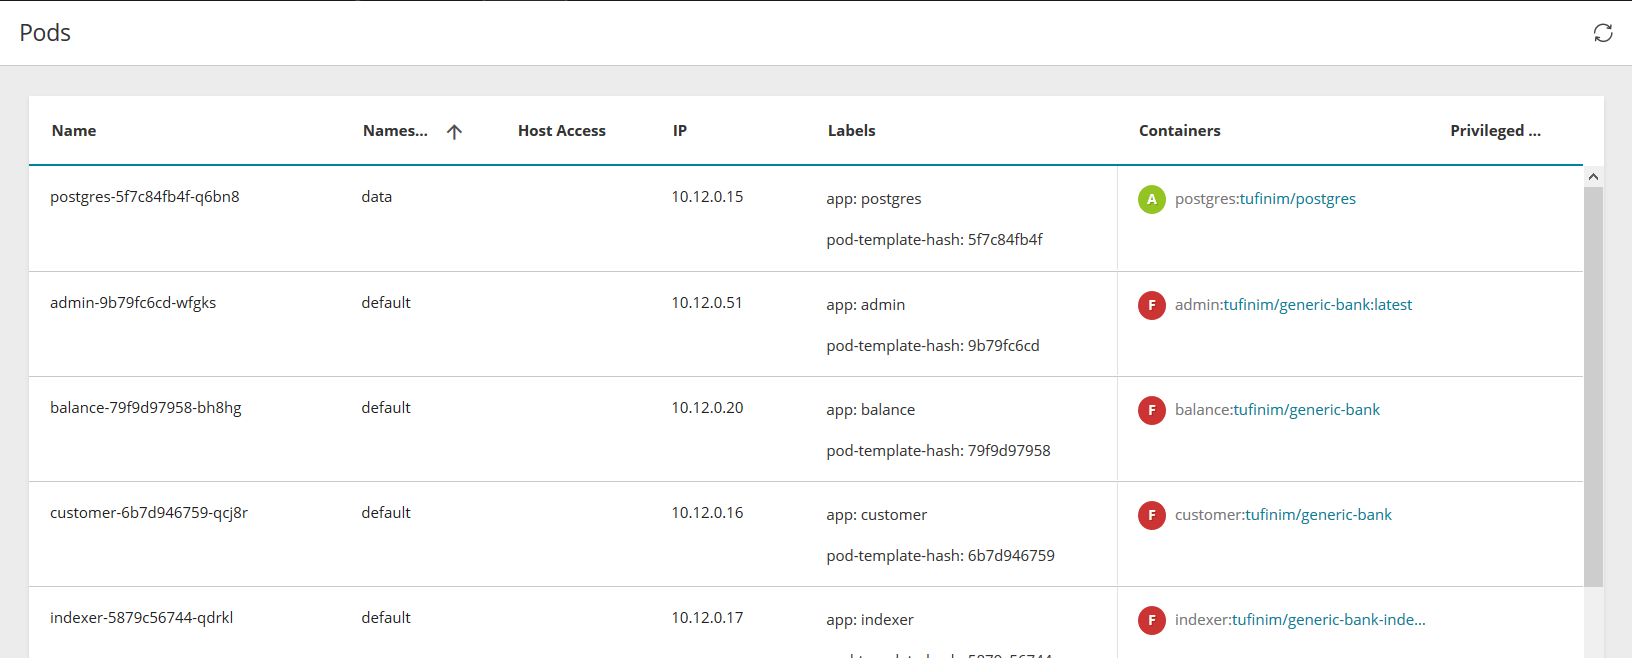
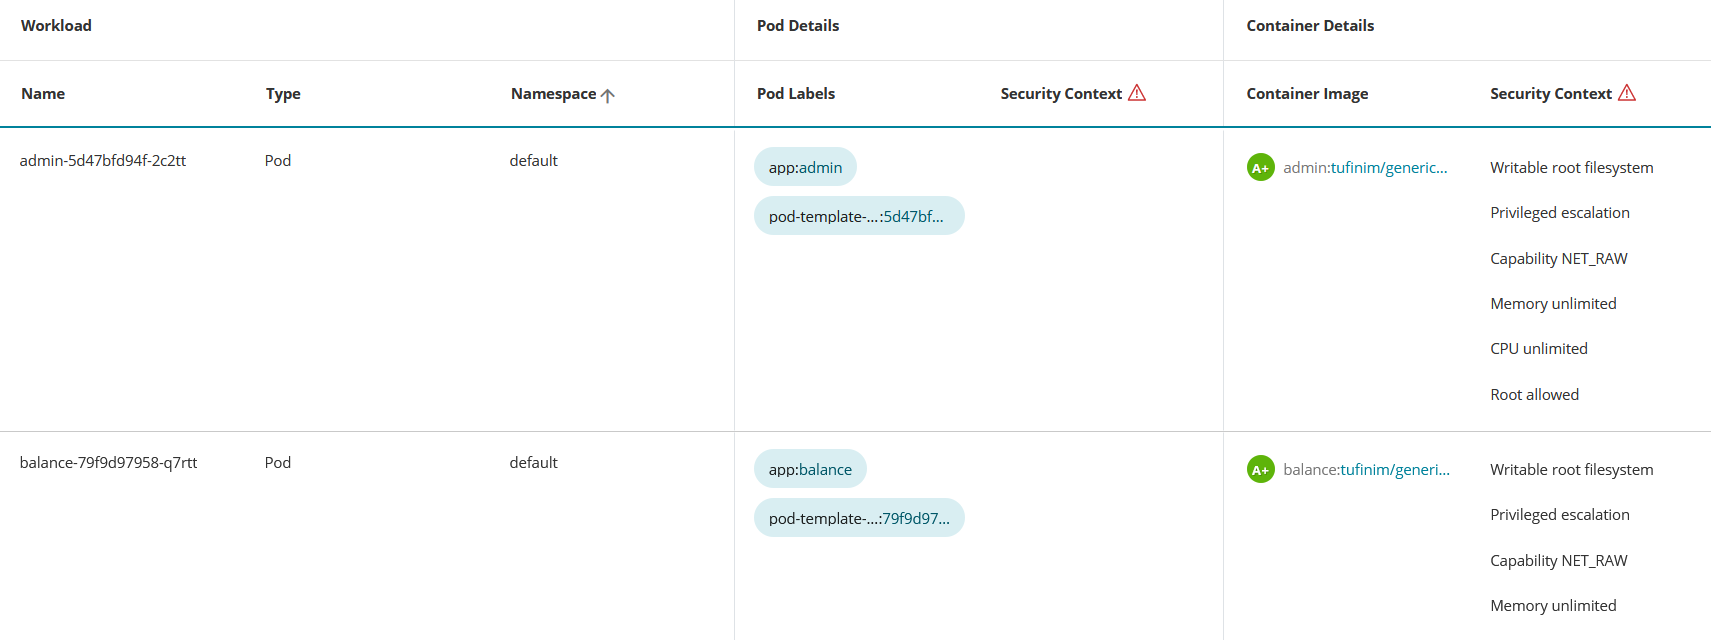
feature / PO / reports, workloads

diff --git a/Content/Kubernetes/Workloads.htm b/Content/Kubernetes/Workloads.htm
@@ -4,14 +4,14 @@
         <link href="../Resources/TableStyles/PatternedRows.css" rel="stylesheet" MadCap:stylesheetType="table" />
     </head>
     <body>
-        <h1>Pods</h1>
+        <h1>Workloads</h1>
         <MadCap:snippetBlock src="../Resources/TopicTemplates/Collateral/H2_Overview.flsnp" />
         <p>
             <img src="../Kubernetes-Images/Screen_Pods.png" class="ThumbnailPopup" />
         </p>
-        <p>The Pods window displays all the <MadCap:popup><MadCap:popupHead>pods</MadCap:popupHead><MadCap:popupBody>A Kubernetes pod is a group of containers that are deployed together on the same host.</MadCap:popupBody></MadCap:popup> in the Kubernetes cluster from nodes that <MadCap:variable name="local-orca.Product_S" /> has permission to access: </p>
+        <p>Display all <MadCap:variable name="local.workload" />s with active <MadCap:popup><MadCap:popupHead>Pods</MadCap:popupHead><MadCap:popupBody>A Kubernetes pod is a group of containers that are deployed together on the same host.</MadCap:popupBody></MadCap:popup> in the cluster from nodes that <MadCap:variable name="local-orca.Product_S" /> has permission to access: </p>
         <table style="mc-table-style: url('../Resources/TableStyles/PatternedRows.css');" class="TableStyle-PatternedRows" cellspacing="0">
-            <col class="TableStyle-PatternedRows-Column-Regular" />
+            <col class="TableStyle-PatternedRows-Column-Regular" style="width: 207px;" />
             <col class="TableStyle-PatternedRows-Column-Regular" />
             <thead>
                 <tr class="TableStyle-PatternedRows-Head-Header1">
@@ -26,41 +26,46 @@
             <tbody>
                 <tr class="TableStyle-PatternedRows-Body-LightRows">
                     <td class="TableStyle-PatternedRows-BodyE-Regular-LightRows">Name</td>
-                    <td class="TableStyle-PatternedRows-BodyD-Regular-LightRows">Name of the pod</td>
+                    <td class="TableStyle-PatternedRows-BodyD-Regular-LightRows">Name of the <MadCap:variable name="local.workload" /></td>
                 </tr>
                 <tr class="TableStyle-PatternedRows-Body-DarkRows">
-                    <td class="TableStyle-PatternedRows-BodyE-Regular-DarkRows">Namespace</td>
-                    <td class="TableStyle-PatternedRows-BodyD-Regular-DarkRows">Namespace in which the pod is running </td>
-                </tr>
-                <tr class="TableStyle-PatternedRows-Body-LightRows">
-                    <td class="TableStyle-PatternedRows-BodyE-Regular-LightRows">Host Access</td>
-                    <td class="TableStyle-PatternedRows-BodyD-Regular-LightRows">
-                        <p>If a value appears here, the pod has access to the host - the node on which the pod was initiated</p>
-                        <MadCap:snippetBlock src="../SecureCloud/WhatIsHostAccess.flsnp" />
+                    <td class="TableStyle-PatternedRows-BodyE-Regular-DarkRows">Type</td>
+                    <td class="TableStyle-PatternedRows-BodyD-Regular-DarkRows">
+                        <p>Type of workload. Can be any one of:</p>
+                        <div>
+                            <ul>
+                                <li>deployment</li>
+                                <li>deamon set</li>
+                                <li>cron job</li>
+                                <li>stateful set</li>
+                                <li>replica set</li>
+                                <li>job</li>
+                            </ul>
+                        </div>
                     </td>
                 </tr>
+                <tr class="TableStyle-PatternedRows-Body-LightRows">
+                    <td class="TableStyle-PatternedRows-BodyE-Regular-LightRows">Namespace</td>
+                    <td class="TableStyle-PatternedRows-BodyD-Regular-LightRows">Namespace to which the workload is applied</td>
+                </tr>
                 <tr class="TableStyle-PatternedRows-Body-DarkRows">
-                    <td class="TableStyle-PatternedRows-BodyE-Regular-DarkRows">IP</td>
-                    <td class="TableStyle-PatternedRows-BodyD-Regular-DarkRows">IP address of the pod</td>
+                    <td class="TableStyle-PatternedRows-BodyE-Regular-DarkRows">Pod Labels</td>
+                    <td class="TableStyle-PatternedRows-BodyD-Regular-DarkRows">The labels assigned to the workload's pods</td>
                 </tr>
                 <tr class="TableStyle-PatternedRows-Body-LightRows">
-                    <td class="TableStyle-PatternedRows-BodyE-Regular-LightRows">Labels</td>
-                    <td class="TableStyle-PatternedRows-BodyD-Regular-LightRows">All labels defined for the pod</td>
+                    <td class="TableStyle-PatternedRows-BodyE-Regular-LightRows">Pod Security Context</td>
+                    <td class="TableStyle-PatternedRows-BodyD-Regular-LightRows">The <a href="WhatIsK8sPrivilegedWorkload.htm">security contexts</a> assigned to the workload's pods</td>
                 </tr>
                 <tr class="TableStyle-PatternedRows-Body-DarkRows">
-                    <td class="TableStyle-PatternedRows-BodyE-Regular-DarkRows">Containers</td>
+                    <td class="TableStyle-PatternedRows-BodyE-Regular-DarkRows">Container Image</td>
                     <td class="TableStyle-PatternedRows-BodyD-Regular-DarkRows">All containers in the pod, showing <a href="SecurityScore.htm"><MadCap:variable name="local-orca.TufinScore" /></a>.</td>
                 </tr>
                 <tr class="TableStyle-PatternedRows-Body-LightRows">
                     <td class="TableStyle-PatternedRows-BodyB-Regular-LightRows">
-                        <p class="TableBodyText">Privileged Mode</p>
+                        <p class="TableBodyText">Container Security Context</p>
                     </td>
                     <td class="TableStyle-PatternedRows-BodyA-Regular-LightRows">
-                        <p class="TableBodyText">When privileged mode is enabled for a container (privileged=true), it has access to all devices on the host and has nearly the same capabilities as processes running on the host. Values:</p>
-                        <ul>
-                            <li><span class="StatusOrValue">Privileged</span>: Container has privileged access</li>
-                            <li>Blank: Container does not have privileged access</li>
-                        </ul>
+                        <p>The <a href="WhatIsK8sPrivilegedWorkload.htm">security contexts</a> assigned to the workload's containers</p>
                     </td>
                 </tr>
             </tbody>
@@ -70,6 +75,6 @@
             <li>View <a href="VulnerabilityDetails.htm">vulnerability details</a> - Click on a <MadCap:variable name="local-orca.TufinScore" /> to display the vulnerability details for that container.</li>
         </ul>
         <MadCap:snippetBlock src="../Resources/TopicTemplates/Collateral/H2_GetHere.flsnp" />
-        <MadCap:snippetBlock src="../Resources/Snippets/GetHere_Pods.flsnp" />
+        <MadCap:snippetBlock src="../Resources/Snippets/GetHere_Workloads.flsnp" />
     </body>
 </html>

diff --git a/Content/SecureCloud/Reports.htm b/Content/SecureCloud/Reports.htm
@@ -1,0 +1,59 @@
+<?xml version="1.0" encoding="utf-8"?>
+<html xmlns:MadCap="http://www.madcapsoftware.com/Schemas/MadCap.xsd">
+    <head>
+    </head>
+    <body>
+        <h1>Reports</h1>
+        <MadCap:snippetBlock src="../Resources/TopicTemplates/Collateral/UL_Contents.flsnp" />
+        <MadCap:snippetBlock src="../Resources/TopicTemplates/Collateral/H2_Overview.flsnp" />
+        <p><MadCap:variable name="local.ProductName" /> contains a number of built-in reports that can be automatically sent by email to keep you constantly updated of any security changes and risks in your <MadCap:variable name="local.public cloud" /> and <MadCap:variable name="local.Kubernetes" /> environments. You can select the reports to deliver, the subscribers that will receive them additionally set up notifications  of <MadCap:variable name="local.public cloud" /> <MadCap:variable name="local.policyviolations" /></p>
+        <MadCap:snippetBlock src="../Resources/TopicTemplates/Collateral/H2_Actions.flsnp" />
+        <ul class="Action">
+            <li><a href="#selectreports">Select the reports to be sent </a>
+            </li>
+            <li><a href="#scheduling">Specify scheduling details</a>
+            </li>
+            <li><a href="#slack">Set up notifications  of <MadCap:variable name="local.public cloud" /> <MadCap:variable name="local.policyviolations" /></a>
+            </li>
+        </ul>
+        <p class="h3"><a name="selectreports"></a>Select the Reports to be Sent</p>
+        <p class="normal">Mark one or more of the reports to be sent automatically to the selected subscribers. The reports are:</p>
+        <p class="h4">Security Posture</p>
+        <p>
+            <img src="../SecureCloud-Images/Screen_Report_Selection.png" class="ThumbnailPopup" />
+        </p>
+        <p class="normal">A weekly report for <MadCap:variable name="local.public cloud" />  and <MadCap:variable name="local.Kubernetes" />security posture that includes the most important categories of information from the <MadCap:variable name="local.Dashboard" />. Once selected, this report will be sent every Tuesday at the time of day and to the subscribers you specify. </p>
+        <p class="h4"><MadCap:variable name="local.Public Cloud" /> <MadCap:variable name="local.PolicyViolations" /></p>
+        <p>A daily report sent 7 days a week containing new <MadCap:variable name="local.policyviolations" /> in your assets at the time of day and to the subscribers you specify. </p>
+        <p class="h4">New Cluster Assessment</p>
+        <p class="normal">A report sent after you connect a new <MadCap:variable name="local.Kubernetes" /> cluster to <MadCap:variable name="local.ProductName" /> that contains an analysis of the cluster security including <MadCap:variable name="local.CISBenchmarkKubernetes" />, <MadCap:variable name="local.privilegedworkloads" />, <MadCap:variable name="local.K8sVulnerabilities" /> and image vulnerabilities. After you have connected your first cluster, subsequent clusters can only be connected with the help of <MadCap:variable name="local.ProductName" /> support.</p>
+        <p class="h3"><a name="scheduling"></a>Specify Scheduling Details</p>
+        <p>Select the time to send and the subscribers to which the reports will be sent. The same setting applies to all the selected reports. The subscribers can only be selected from existing <a href="Users.htm">users</a> of the current <MadCap:variable name="local.MyAccount" />.</p>
+        <p>
+            <img src="../SecureCloud-Images/Screen_Reports_Schedule.png" class="ThumbnailPopup" />
+        </p>
+        <p>To specify the time the report should be sent, click on <img src="../PublicCloud-Images/icon_Edit.png" class="noborder" />and select the preferred time.</p>
+        <p>To add users to the list of subscribers, click <span class="ScreenObject">Add Subscriber</span> and select the user from the list.</p>
+        <p>To remove a subscriber, hover over the user and click <img src="../PublicCloud-Images/icon_Delete.png" class="noborder" />.</p>
+        <p class="h3"><a name="slack"></a>Set Up Notifications of <MadCap:variable name="local.Public Cloud" /> <MadCap:variable name="local.PolicyViolations" /></p>
+        <p>
+            <img src="../SecureCloud-Images/Screen_Reports_Slack.png" class="ThumbnailPopup" />
+        </p>
+        <p>You can receive a notification via Slack every time a <MadCap:variable name="local.public cloud" /> policy violation is detected. </p>
+        <ol>
+            <li>
+                <p> Enable / disable notifications using the checkbox.</p>
+            </li>
+            <li>
+                <p>When enabled, enter the Slack URL of an individual or group to receive notifications - see <a href="https://api.slack.com/incoming-webhooks">Slack documentation</a>. <MadCap:variable name="local-orca.Product_S" /> remembers the URL when disabled.</p>
+            </li>
+        </ol>
+        <p>
+            <MadCap:snippetBlock src="../Resources/TopicTemplates/Collateral/H2_GetHere.flsnp" />
+            <MadCap:snippetBlock src="../Resources/Snippets/GetHere_Reports.flsnp" />
+        </p>
+        <p>&#160;</p>
+        <p>&#160;</p>
+        <p>&#160;</p>
+    </body>
+</html>

diff --git a/Content/SecureCloud/WhatsNew.htm b/Content/SecureCloud/WhatsNew.htm
@@ -21,14 +21,64 @@
             </thead>
             <tbody>
                 <tr class="TableStyle-PatternedRows-Body-LightRows">
-                    <td class="TableStyle-PatternedRows-BodyE-Regular-LightRows">Export CSV</td>
+                    <td class="TableStyle-PatternedRows-BodyE-Regular-LightRows">sdfgsdfg</td>
                     <td class="TableStyle-PatternedRows-BodyD-Regular-LightRows">
-                        <p>Export the current screen to a CSV file and download to your PC</p>
+                        <p>sdfgsdfg</p>
                     </td>
                 </tr>
                 <tr class="TableStyle-PatternedRows-Body-DarkRows">
-                    <td class="TableStyle-PatternedRows-BodyB-Regular-DarkRows">Reports</td>
-                    <td class="TableStyle-PatternedRows-BodyA-Regular-DarkRows">Schedule daily and weekly reports</td>
+                    <td class="TableStyle-PatternedRows-BodyB-Regular-DarkRows">sdfgsdfg</td>
+                    <td class="TableStyle-PatternedRows-BodyA-Regular-DarkRows">sdfsdfg</td>
+                </tr>
+            </tbody>
+        </table>
+        <p class="SubHead1">Available since 29th November 2020</p>
+        <table style="width: 100%;mc-table-style: url('../Resources/TableStyles/PatternedRows.css');" class="TableStyle-PatternedRows" cellspacing="0">
+            <col class="TableStyle-PatternedRows-Column-Regular" style="width: 237px;" MadCap:conditions="" />
+            <col class="TableStyle-PatternedRows-Column-Regular" MadCap:conditions="" style="width: 201px;" />
+            <col class="TableStyle-PatternedRows-Column-Regular" MadCap:conditions="" />
+            <thead>
+                <tr class="TableStyle-PatternedRows-Head-Header1">
+                    <th class="TableStyle-PatternedRows-HeadE-Regular-Header1" style="font-weight: normal;">
+                        <p class="TableHeading">Title</p>
+                    </th>
+                    <th class="TableStyle-PatternedRows-HeadE-Regular-Header1">
+                        <p class="TableHeading">How do I Get Here?</p>
+                    </th>
+                    <th class="TableStyle-PatternedRows-HeadD-Regular-Header1" style="font-weight: normal;">
+                        <p class="TableHeading">Details</p>
+                    </th>
+                </tr>
+            </thead>
+            <tbody>
+                <tr class="TableStyle-PatternedRows-Body-LightRows">
+                    <td class="TableStyle-PatternedRows-BodyE-Regular-LightRows">Export CSV</td>
+                    <td class="TableStyle-PatternedRows-BodyE-Regular-LightRows">
+                        <p class="TableBodyText">
+                            <MadCap:snippetText src="../Resources/Snippets/GetHere_Dashboard.flsnp" /> &gt; drilldown</p>
+                    </td>
+                    <td class="TableStyle-PatternedRows-BodyD-Regular-LightRows">
+                        <p>Export the current screen to a CSV file and download to your PC. <a href="Dashboard.htm">More...</a></p>
+                    </td>
+                </tr>
+                <tr class="TableStyle-PatternedRows-Body-DarkRows">
+                    <td class="TableStyle-PatternedRows-BodyE-Regular-DarkRows">
+                        <p class="TableBodyText"><MadCap:variable name="local.Workloads" />
+                        </p>
+                    </td>
+                    <td class="TableStyle-PatternedRows-BodyE-Regular-DarkRows">
+                        <MadCap:snippetBlock src="../Resources/Snippets/GetHere_Workloads.flsnp" />
+                    </td>
+                    <td class="TableStyle-PatternedRows-BodyD-Regular-DarkRows">
+                        <p class="TableBodyText">Pods screen changed to <MadCap:variable name="local.Workloads" />. <a href="../Kubernetes/Workloads.htm">More...</a></p>
+                    </td>
+                </tr>
+                <tr class="TableStyle-PatternedRows-Body-LightRows">
+                    <td class="TableStyle-PatternedRows-BodyB-Regular-LightRows">Reports</td>
+                    <td class="TableStyle-PatternedRows-BodyB-Regular-LightRows">
+                        <MadCap:snippetBlock src="../Resources/Snippets/GetHere_Reports.flsnp" />
+                    </td>
+                    <td class="TableStyle-PatternedRows-BodyA-Regular-LightRows">Weekly security posture report, daily public cloud policy violations report and new cluster assessment report, plus slack notifications of policy violations. <a href="Reports.htm">More...</a></td>
                 </tr>
             </tbody>
         </table>

diff --git a/Content/SecureCloud/Navigation.htm b/Content/SecureCloud/Navigation.htm
@@ -4,7 +4,7 @@
         <link href="../Resources/TableStyles/PatternedRows.css" rel="stylesheet" MadCap:stylesheetType="table" />
     </head>
     <body>
-        <h1>Navigate <MadCap:variable name="local-orca.Product_S" /></h1>
+        <h1>Navigating <MadCap:variable name="local-orca.Product_S" /></h1>
         <p>Actions and functions that appear throughout <MadCap:variable name="local-orca.Product_S" />.</p>
         <ul>
             <li>
@@ -23,6 +23,8 @@
             </li>
             <li>
                 <MadCap:xref href="#copypaste">Copy / Paste Fields on the Screen</MadCap:xref>
+            </li>
+            <li><a href="#csv">Download as CSV File</a>
             </li>
         </ul>
         <p class="h2"><a name="menu"></a>Main Menu</p>
@@ -100,7 +102,8 @@
                                 <MadCap:xref href="../Kubernetes/Nodes.htm">Nodes</MadCap:xref>
                             </li>
                             <li>
-                                <MadCap:xref href="../Kubernetes/Pods.htm">Pods</MadCap:xref>
+                                <MadCap:xref href="../Kubernetes/Workloads.htm"><MadCap:variable name="local.Workloads" />
+                                </MadCap:xref>
                             </li>
                             <li>
                                 <MadCap:xref href="../Kubernetes/Services.htm">Services</MadCap:xref>
@@ -139,6 +142,8 @@
                     <li><a href="ActiveDirectory.htm"><MadCap:variable name="local.ActiveDirectory" /></a>
                     </li>
                     <li><a href="ConfigRisk.htm"><MadCap:variable name="local.RiskConfiguration" /></a>
+                    </li>
+                    <li><a href="Reports.htm"><MadCap:variable name="local.Reports" /></a>
                     </li>
                 </ul>
             </li>
@@ -288,6 +293,8 @@
             </tbody>
         </table>
         <p class="h2"><a name="copypaste"></a>Copy / Paste Fields on the Screen</p>
-        <p>A number of screens e.g. <MadCap:xref href="../PublicCloud/Assets.htm">Assets</MadCap:xref>, <MadCap:xref href="../PublicCloud/AzureFirewalls.htm">Azure Firewalls</MadCap:xref>, display the copy-to-clipboard icon when hovering over a field to allow easy copy/paste of screen information.</p>
+        <p>A number of screens e.g. <a href="../PublicCloud/Assets.htm#asset%20overview">asset overview</a>, <MadCap:xref href="../PublicCloud/AzureFirewalls.htm">azure firewalls</MadCap:xref>, display the copy-to-clipboard icon when hovering over a field to allow easy copy/paste of screen information.</p>
+        <p class="h2"><a name="csv"></a>Download as CSV File</p>
+        <p class="normal">Some screens such as <MadCap:variable name="local.PermissiveAccess" /> by Asset, and <MadCap:variable name="local.K8sVulnerabilities" /> have the option of exporting and downloading the information displayed as a CSV file, which can be viewed using Excel and other CSV readers. When available, the CSV icon <img src="../SecureCloud-Images/Icon_CSV.png" />  appears on the screen.</p>
     </body>
 </html>

diff --git a/Content/Kubernetes/DEPRECATED_ClusterPolicy.htm b/Content/Kubernetes/DEPRECATED_ClusterPolicy.htm
@@ -16,7 +16,7 @@
             </li>
         </ul>
         <p class="h2"><a name="policymode"></a>Policy Mode</p>
-        <p><MadCap:variable name="local-orca.Product_S" /> has 2 modes of operation or <span class="ScreenObject">Policy Modes</span> - <span class="StatusOrValue">Learn</span> and <span class="StatusOrValue">Enforce</span>. <span class="StatusOrValue">Learn</span> mode lets you monitor your application without blocking traffic between services or containers so you can learn about the traffic connections between the services used in your Kubernetes cluster. Enforce applies your policy to the traffic in the cluster, allowing only traffic defined by the <MadCap:variable name="local-orca.Product_S" /> policy rules. The  monitoring and visibility capabilities  such as <a href="ServiceGraph.htm">Service Graph</a>, <a href="Pods.htm">Pods</a>, and <a href="Services.htm">Services</a> are always available, and are independent of the mode setting. Policy Mode can be changed in <a href="OrcaSettingsGeneral.htm">Settings</a>.</p>
+        <p><MadCap:variable name="local-orca.Product_S" /> has 2 modes of operation or <span class="ScreenObject">Policy Modes</span> - <span class="StatusOrValue">Learn</span> and <span class="StatusOrValue">Enforce</span>. <span class="StatusOrValue">Learn</span> mode lets you monitor your application without blocking traffic between services or containers so you can learn about the traffic connections between the services used in your Kubernetes cluster. Enforce applies your policy to the traffic in the cluster, allowing only traffic defined by the <MadCap:variable name="local-orca.Product_S" /> policy rules. The  monitoring and visibility capabilities  such as <a href="ServiceGraph.htm">Service Graph</a>, <a href="Workloads.htm">Pods</a>, and <a href="Services.htm">Services</a> are always available, and are independent of the mode setting. Policy Mode can be changed in <a href="OrcaSettingsGeneral.htm">Settings</a>.</p>
         <div class="Note">Enforce mode is not currently supported for <MadCap:variable name="local-orca.Openshift" />.</div>
         <ul>
             <li>

diff --git a/Content/SecureCloud/ConceptOfPolicy.htm b/Content/SecureCloud/ConceptOfPolicy.htm
@@ -24,7 +24,7 @@
         </p>
         <MadCap:snippetBlock src="../Kubernetes/WhatIsClusterPolicy.flsnp" />
         <p class="h3"><a name="policymode"></a>Policy Mode</p>
-        <p><MadCap:variable name="local-orca.Product_S" /> has 2 modes of operation or <span class="ScreenObject">Policy Modes</span> - <span class="StatusOrValue">Learn</span> and <span class="StatusOrValue">Enforce</span>. <span class="StatusOrValue">Learn</span> mode lets you monitor your application without blocking traffic between services or containers, so you can learn about the traffic connections between the services used in your Kubernetes cluster. Enforce applies your policy to the traffic in the cluster, allowing only traffic defined by the <MadCap:variable name="local-orca.Product_S" /> policy rules. The  monitoring and visibility capabilities  such as <a href="../Kubernetes/ServiceGraph.htm">Service Graph</a>, <a href="../Kubernetes/Pods.htm">Pods</a>, and <a href="../Kubernetes/Services.htm">Services</a> are always available, and are independent of the mode setting. </p>
+        <p><MadCap:variable name="local-orca.Product_S" /> has 2 modes of operation or <span class="ScreenObject">Policy Modes</span> - <span class="StatusOrValue">Learn</span> and <span class="StatusOrValue">Enforce</span>. <span class="StatusOrValue">Learn</span> mode lets you monitor your application without blocking traffic between services or containers, so you can learn about the traffic connections between the services used in your Kubernetes cluster. Enforce applies your policy to the traffic in the cluster, allowing only traffic defined by the <MadCap:variable name="local-orca.Product_S" /> policy rules. The  monitoring and visibility capabilities  such as <a href="../Kubernetes/ServiceGraph.htm">Service Graph</a>, <a href="../Kubernetes/Workloads.htm">Pods</a>, and <a href="../Kubernetes/Services.htm">Services</a> are always available, and are independent of the mode setting. </p>
         <div class="NoteLight">Enforce mode is not currently supported for <MadCap:variable name="local-orca.Openshift" />.</div>
         <ul>
             <li>

diff --git a/Content/Kubernetes/DEPRECATED_UsingOrca.htm b/Content/Kubernetes/DEPRECATED_UsingOrca.htm
@@ -9,7 +9,7 @@
         <p>These are the more frequent tasks you'll be handling:</p>
         <ul>
             <li><a href="OrcaSettingsGeneral.htm#invite">Add users</a> to your project.</li>
-            <li>Review the cluster and its activity. To see traffic, make sure there has been activity in your cluster for an hour at least. Each of the following will give you visibility into different levels of the cluster and expose vulnerabilities: <a href="../SecureCloud/Dashboard.htm">Dashboard</a>, <a href="ServiceGraph.htm">Service Graph,</a> <a href="Services.htm">Services</a>, <a href="Nodes.htm">Nodes</a>, <a href="Pods.htm">Pods</a>, <a href="Services.htm">Services</a>, <a href="Nodes.htm">Nodes</a>, <a href="NewConnections.htm">New Connections</a>, <a href="KubernetesNetPolicies.htm">Kubernetes Network Policies</a>.</li>
+            <li>Review the cluster and its activity. To see traffic, make sure there has been activity in your cluster for an hour at least. Each of the following will give you visibility into different levels of the cluster and expose vulnerabilities: <a href="../SecureCloud/Dashboard.htm">Dashboard</a>, <a href="ServiceGraph.htm">Service Graph,</a> <a href="Services.htm">Services</a>, <a href="Nodes.htm">Nodes</a>, <a href="Workloads.htm">Pods</a>, <a href="Services.htm">Services</a>, <a href="Nodes.htm">Nodes</a>, <a href="NewConnections.htm">New Connections</a>, <a href="KubernetesNetPolicies.htm">Kubernetes Network Policies</a>.</li>
             <li>Build and maintain a security policy. <a href="NewConnections.htm">Review connections discovered</a> by <MadCap:variable name="local-orca.Product_S" /> that you haven't allowed in the policy, add <a href="AllowedConnections.htm">allowed connections</a> to the policy and fine tune the policy  by adding / removing as required.</li>
             <li><a href="Enforcement.htm">Enforce</a> the policy on Kubernetes. See <a href="AllowedConnections.htm#Export">Export as Network Policies</a>.</li>
         </ul>

diff --git a/Content/PublicCloud/Assets.htm b/Content/PublicCloud/Assets.htm
@@ -235,7 +235,13 @@
                 <p><span class="SpecialBold">Exception Name:</span> A name of your choice.</p>
                 <p><span class="SpecialBold">Violation Type:</span> Risky port, Permissive source, Permissive service. If more than one type of violation exists for the selected access then select the type of exception you are defining. If only one type of violation exists for the access, it cannot be changed.</p>
                 <p><span class="SpecialBold">Violation Details:</span> The ports, sources or services identified as violations. If more than one violation exists for the selected violation type and access, then select all those appropriate for the exception you are defining. If only one violation exists for this violation type and access, it cannot be changed.</p>
-                <p><span class="SpecialBold">Scope:</span> The assets to be included in the exception. Select one from:&#160;security control, cloud account or all cloud accounts.</p>
+                <p><span class="SpecialBold">Asset Scope:</span> The assets to be included in the exception. Select one:&#160;</p>
+                <ul>
+                    <li><b>Security control</b> - all assets to which access is permitted by the security control allowing this access</li>
+                    <li><b>Asset tags</b> - all assets having the exact same tags as this asset</li>
+                    <li><b>Cloud account</b> - all assets in the cloud account in which this asset is located</li>
+                    <li><b>All cloud accounts</b> - all cloud accounts monitored by SecureCloud</li>
+                </ul>
                 <p><span class="SpecialBold">Description:</span> Optional text of your choice.</p>
             </li>
             <li> click <span class="ScreenObject">Add</span> to save.</li>

diff --git a/Content/SecureCloud/DEPRECATED_GetStarted.htm b/Content/SecureCloud/DEPRECATED_GetStarted.htm
@@ -31,7 +31,7 @@
                 <ul>
                     <li>
                         <p>Review the cluster and its activity</p>
-                        <p>Use the following tools to get visibility into different levels of the cluster and expose vulnerabilities: <a href="Dashboard.htm">Dashboard</a>, <a href="../Kubernetes/ServiceGraph.htm">Service Graph</a>, <a href="../Kubernetes/Services.htm">Services</a>, <a href="../Kubernetes/Nodes.htm">Nodes</a>, <a href="../Kubernetes/Pods.htm">Pods</a>, <a href="../Kubernetes/Services.htm">Services</a>, <a href="../Kubernetes/Nodes.htm">Nodes</a>, <a href="../Kubernetes/NewConnections.htm">New Connections</a>, <a href="../Kubernetes/KubernetesNetPolicies.htm">Kubernetes Network Policies</a>.</p>
+                        <p>Use the following tools to get visibility into different levels of the cluster and expose vulnerabilities: <a href="Dashboard.htm">Dashboard</a>, <a href="../Kubernetes/ServiceGraph.htm">Service Graph</a>, <a href="../Kubernetes/Services.htm">Services</a>, <a href="../Kubernetes/Nodes.htm">Nodes</a>, <a href="../Kubernetes/Workloads.htm">Pods</a>, <a href="../Kubernetes/Services.htm">Services</a>, <a href="../Kubernetes/Nodes.htm">Nodes</a>, <a href="../Kubernetes/NewConnections.htm">New Connections</a>, <a href="../Kubernetes/KubernetesNetPolicies.htm">Kubernetes Network Policies</a>.</p>
                     </li>
                     <li>
                         <p>Build and maintain a security policy. <a href="../Kubernetes/NewConnections.htm">Review connections discovered</a> by <MadCap:variable name="local-orca.Product_S" /> that you haven't allowed in the policy, add <a href="../Kubernetes/AllowedConnections.htm">allowed connections</a> to the policy and fine tune the policy  by adding / removing as required.</p>

diff --git a/Content/SecureCloud/DEPRECATED_GetStarted1.htm b/Content/SecureCloud/DEPRECATED_GetStarted1.htm
@@ -31,7 +31,7 @@
                 <ul>
                     <li>
                         <p>Review the cluster and its activity</p>
-                        <p>Use the following tools to get visibility into different levels of the cluster and expose vulnerabilities: <a href="Dashboard.htm">Dashboard</a>, <a href="../Kubernetes/ServiceGraph.htm">Service Graph</a>, <a href="../Kubernetes/Services.htm">Services</a>, <a href="../Kubernetes/Nodes.htm">Nodes</a>, <a href="../Kubernetes/Pods.htm">Pods</a>, <a href="../Kubernetes/Services.htm">Services</a>, <a href="../Kubernetes/Nodes.htm">Nodes</a>, <a href="../Kubernetes/NewConnections.htm">New Connections</a>, <a href="../Kubernetes/KubernetesNetPolicies.htm">Kubernetes Network Policies</a>.</p>
+                        <p>Use the following tools to get visibility into different levels of the cluster and expose vulnerabilities: <a href="Dashboard.htm">Dashboard</a>, <a href="../Kubernetes/ServiceGraph.htm">Service Graph</a>, <a href="../Kubernetes/Services.htm">Services</a>, <a href="../Kubernetes/Nodes.htm">Nodes</a>, <a href="../Kubernetes/Workloads.htm">Pods</a>, <a href="../Kubernetes/Services.htm">Services</a>, <a href="../Kubernetes/Nodes.htm">Nodes</a>, <a href="../Kubernetes/NewConnections.htm">New Connections</a>, <a href="../Kubernetes/KubernetesNetPolicies.htm">Kubernetes Network Policies</a>.</p>
                     </li>
                     <li>
                         <p>Build and maintain a security policy. <a href="../Kubernetes/NewConnections.htm">Review connections discovered</a> by <MadCap:variable name="local-orca.Product_S" /> that you haven't allowed in the policy, add <a href="../Kubernetes/AllowedConnections.htm">allowed connections</a> to the policy and fine tune the policy  by adding / removing as required.</p>

diff --git a/Content/SecureCloud/HowToWorkWith.htm b/Content/SecureCloud/HowToWorkWith.htm
@@ -26,7 +26,7 @@
                 <ul>
                     <li>
                         <p>Review the cluster and its activity</p>
-                        <p>Use the following tools to get visibility into different levels of the cluster and expose vulnerabilities: <a href="Dashboard.htm">Dashboard</a>, <a href="../Kubernetes/ServiceGraph.htm">Service Graph</a>, <a href="../Kubernetes/Services.htm">Services</a>, <a href="../Kubernetes/Nodes.htm">Nodes</a>, <a href="../Kubernetes/Pods.htm">Pods</a>, <a href="../Kubernetes/Services.htm">Services</a>, <a href="../Kubernetes/Nodes.htm">Nodes</a>, <a href="../Kubernetes/NewConnections.htm">New Connections</a>, <a href="../Kubernetes/KubernetesNetPolicies.htm">Kubernetes Network Policies</a>.</p>
+                        <p>Use the following tools to get visibility into different levels of the cluster and expose vulnerabilities: <a href="Dashboard.htm">Dashboard</a>, <a href="../Kubernetes/ServiceGraph.htm">Service Graph</a>, <a href="../Kubernetes/Services.htm">Services</a>, <a href="../Kubernetes/Nodes.htm">Nodes</a>, <a href="../Kubernetes/Workloads.htm">Pods</a>, <a href="../Kubernetes/Services.htm">Services</a>, <a href="../Kubernetes/Nodes.htm">Nodes</a>, <a href="../Kubernetes/NewConnections.htm">New Connections</a>, <a href="../Kubernetes/KubernetesNetPolicies.htm">Kubernetes Network Policies</a>.</p>
                     </li>
                     <li>
                         <p>Build and maintain a security policy. <a href="../Kubernetes/NewConnections.htm">Review connections discovered</a> by <MadCap:variable name="local-orca.Product_S" /> that you haven't allowed in the policy, add <a href="../Kubernetes/AllowedConnections.htm">allowed connections</a> to the policy and fine tune the policy  by adding / removing as required.</p>

diff --git a/Content/SecureCloud/Dashboard.htm b/Content/SecureCloud/Dashboard.htm
@@ -16,11 +16,11 @@
         </p>
         <MadCap:snippetBlock src="../Resources/TopicTemplates/Collateral/H2_Actions.flsnp" />
         <ul class="Action">
-            <li>Filter the display - click <span class="ScreenObject">All</span>, <span class="ScreenObject"><MadCap:variable name="local.Public Cloud" /></span> or <span class="ScreenObject">Kubernetes </span></li>
+            <li MadCap:conditions="General.Exclude">Filter the display - click <span class="ScreenObject">All</span>, <span class="ScreenObject"><MadCap:variable name="local.Public Cloud" /></span> or <span class="ScreenObject">Kubernetes </span></li>
             <li>Drill down to see details of the <a href="#publiccloud">public cloud</a> or <a href="#kubernetes"><MadCap:variable name="local.Kubernetes" /></a> risks by clicking on the desired <MadCap:variable name="local.Widget" /></li>
         </ul>
         <p class="h3"><a name="publiccloud"></a>Public Cloud Detail</p>
-        <p>Click on a <MadCap:variable name="local.Widget" /> to drill down to the relevant detail.</p>
+        <p>Click on a <MadCap:variable name="local.Widget" /> to drill down to the relevant detail. Most reports can be downloaded as a CSV file, which can contain additional information not shown on the screen.</p>
         <p class="h4">Risky Ports</p>
         <p>The Risky Ports <MadCap:variable name="local.Widget" /> <MadCap:snippetText src="Risk_Posed.flsnp" /> high-risk ports. <MadCap:snippetText src="NumberOfAssets.flsnp" />Click on the <MadCap:variable name="local.Widget" /> to display all <a href="CloudRiskyPorts-by-Asset.htm"><MadCap:variable name="local.asset" />s with <MadCap:variable name="local.RiskyPorts (heading)" /></a>.</p>
         <p style="font-weight: bold;">What are risky ports? </p>
